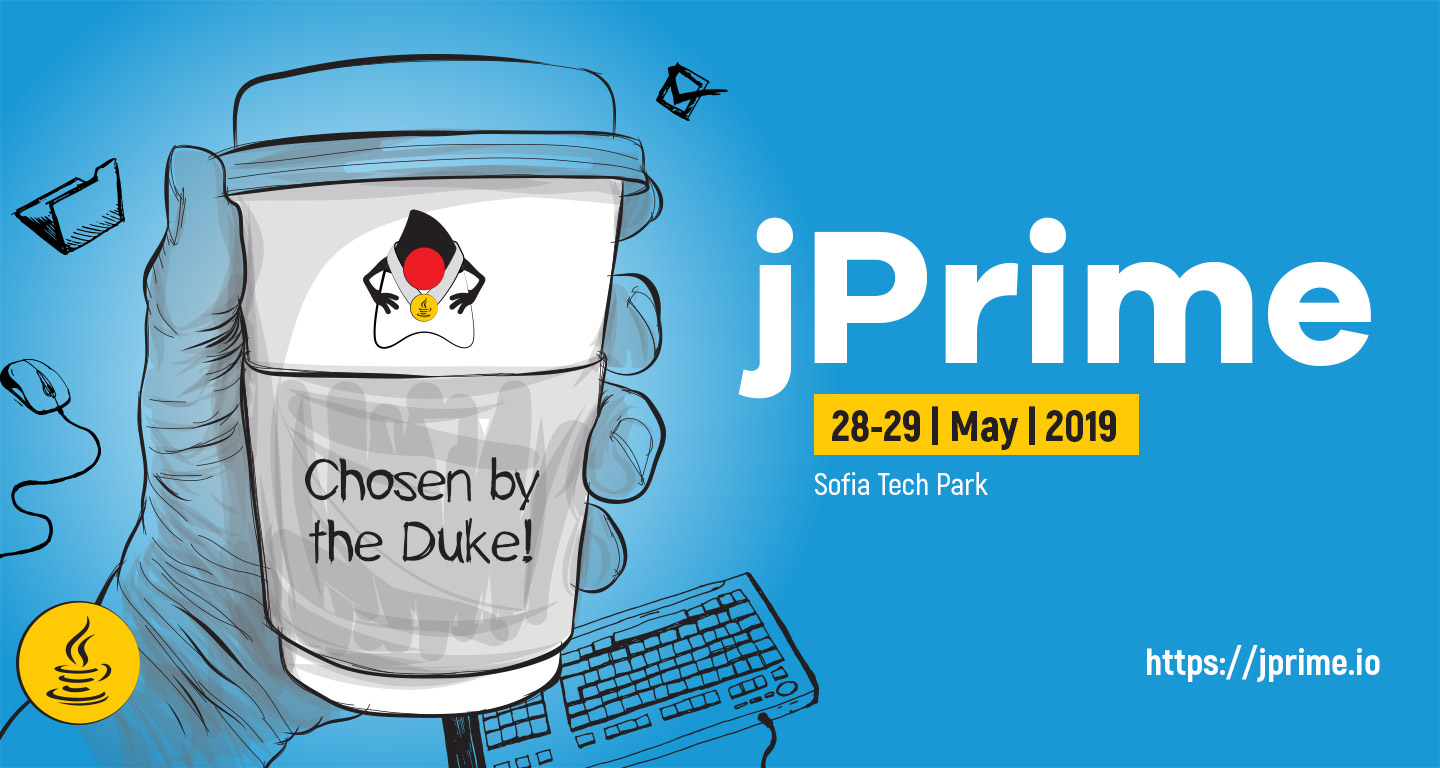
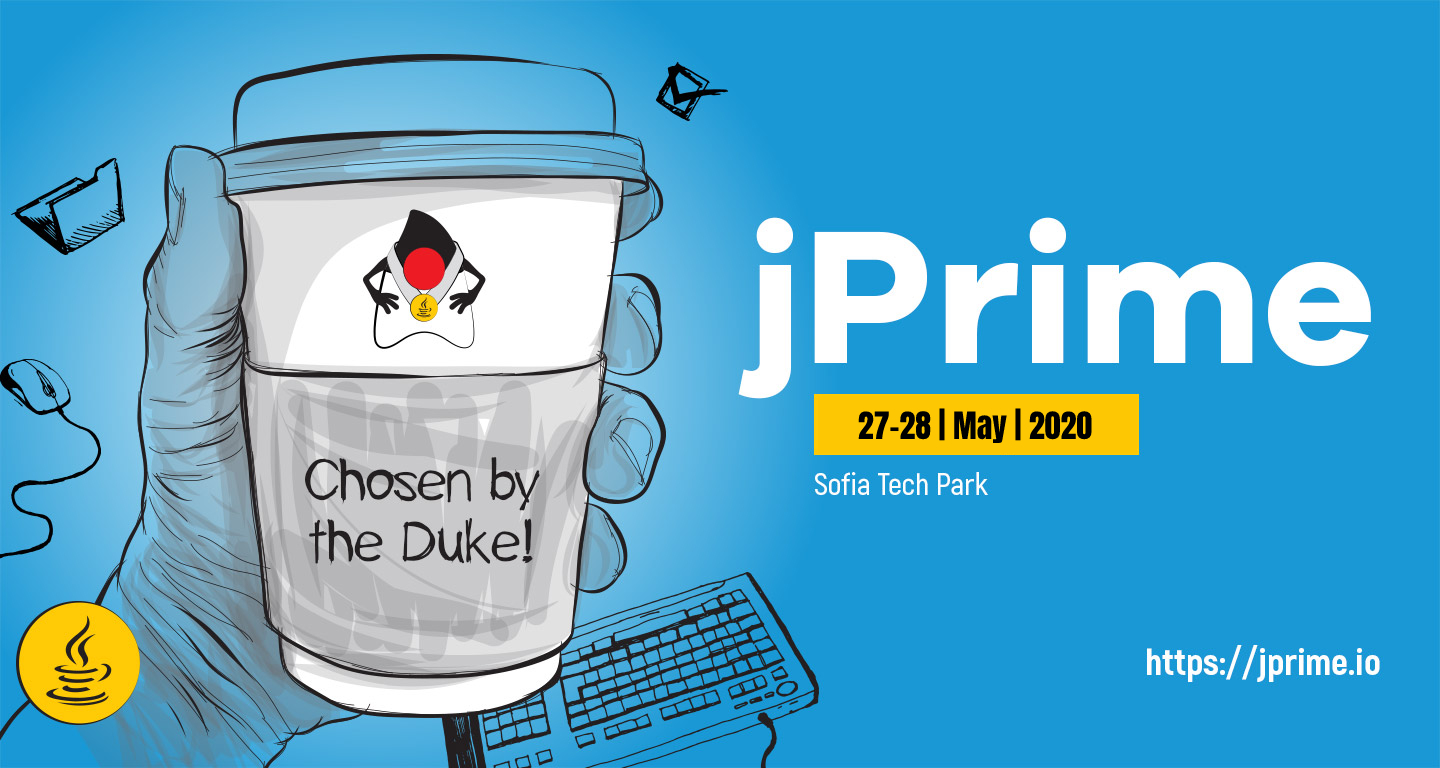
Fixing some texts and dates for 2020.

Changed region(s): [[0.5625, 0.5312, 0.7812, 0.5938]]

diff --git a/src/main/webapp/assets/js/main.js b/src/main/webapp/assets/js/main.js
@@ -20,7 +20,7 @@
     /* ==========================================================================
        countdown timer
        ========================================================================== */
-     jQuery('#clock').countdown('2020/05/28 08:00:00',function(event){
+     jQuery('#clock').countdown('2020/05/27 08:00:00',function(event){
       var $this=jQuery(this).html(event.strftime(''
       +'<div class="time-entry days"><span>%-D</span> Days</div> '
       +'<div class="time-entry hours"><span>%H</span> Hours</div> '
